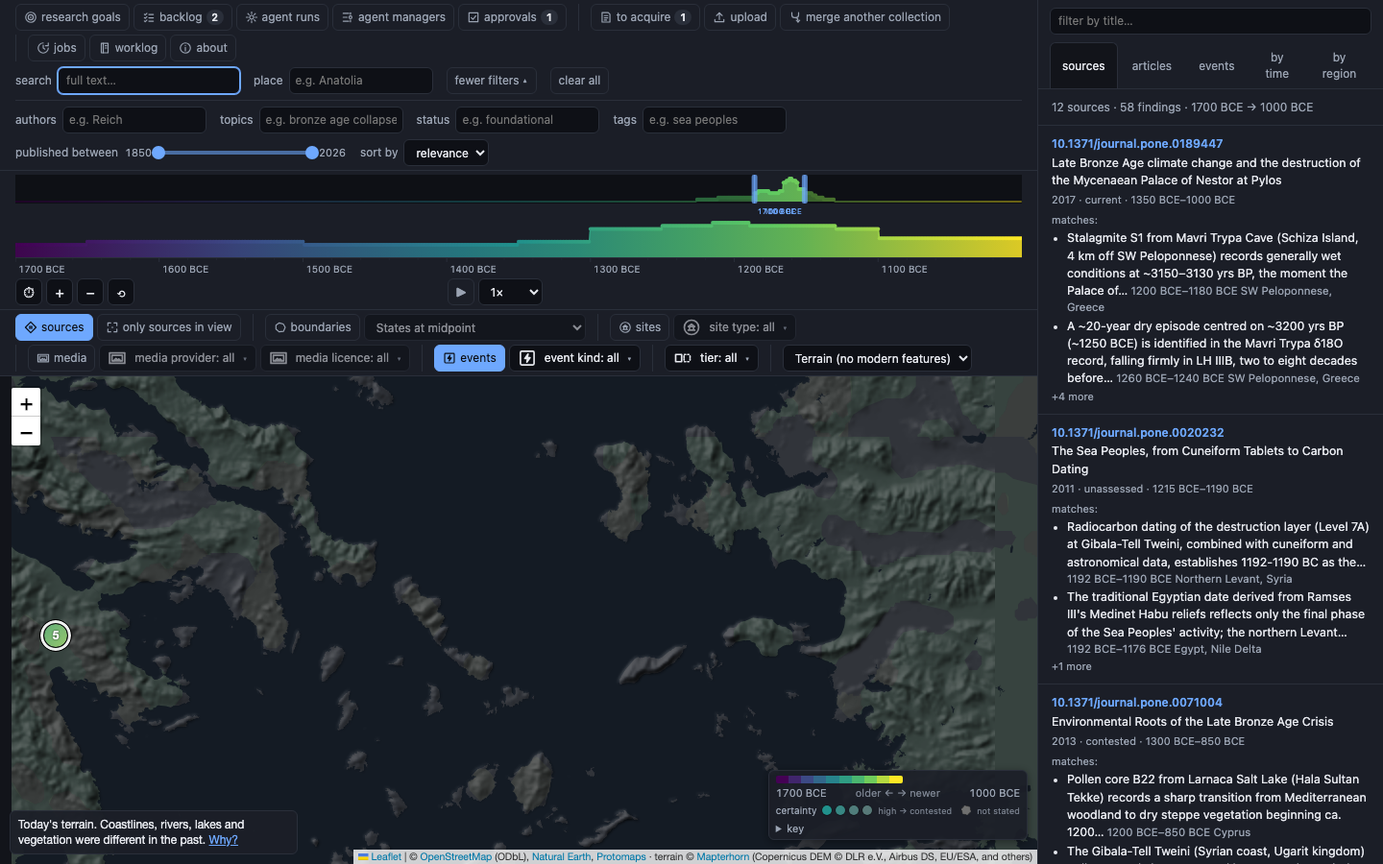
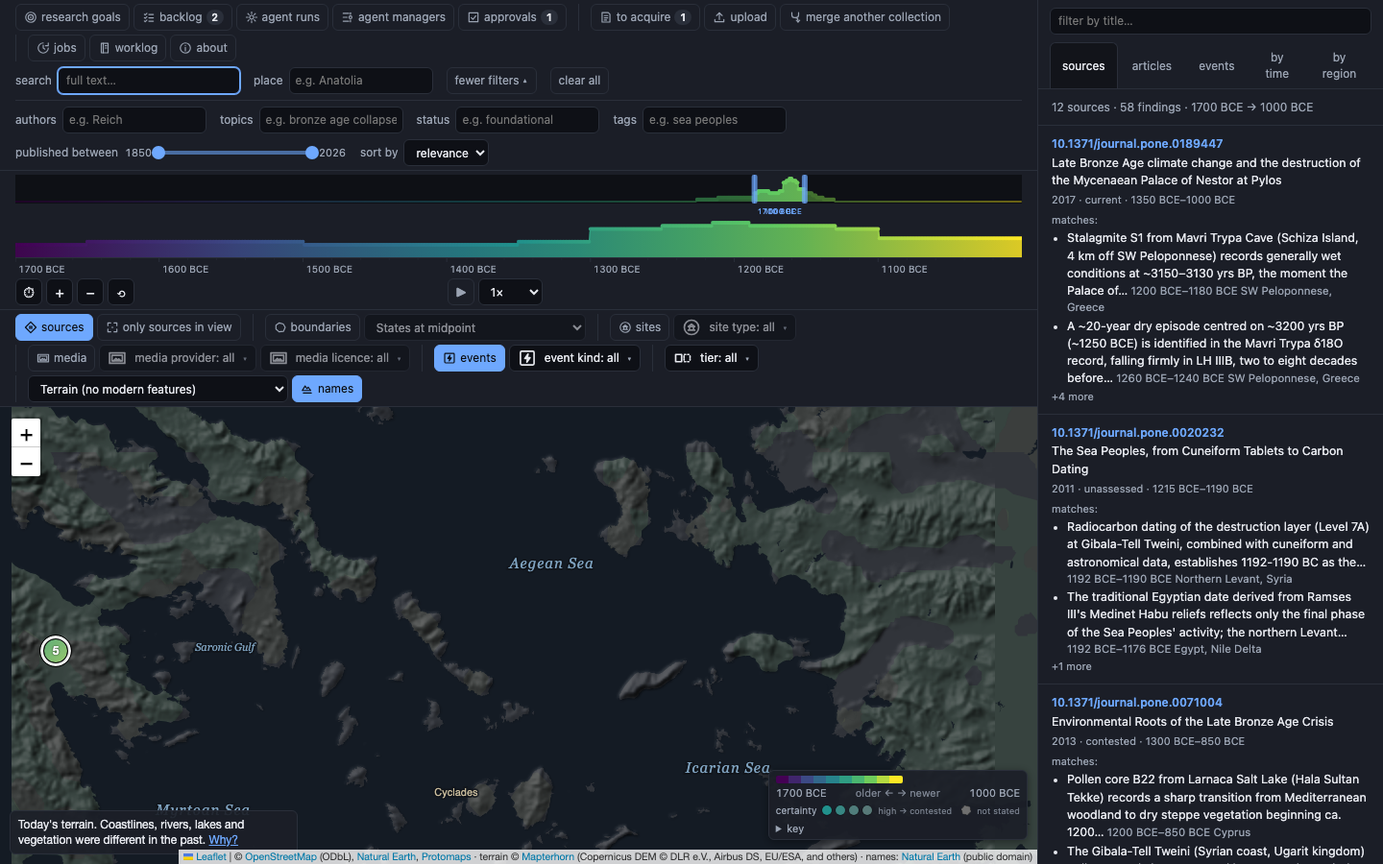
Document customising the terrain map; screenshots of three styles with the names
New page how-to/terrain-styles.md: the named styles, the physical names and
their language, the style file (where it goes, a commented example, every
key, colours, zoom stops), checking a file, what happens to a broken one,
when a change shows. Open data: the broad extract, the drop list, keep-all,
the labels layer and the new sizes; configuration rows; regenerated CLI and
REST references. The terrain map paints the style's background beyond the
extract.

diff --git a/modules/server/src/main/resources/web/style.css b/modules/server/src/main/resources/web/style.css
@@ -375,7 +375,9 @@ header { flex-wrap:wrap; align-items:flex-start; }
 /* `Terrain` base map (TerrainMap): outside the downloaded region there is no tile — the page's own
    background; while it is not downloaded, the standard tiles stand in, dimmed like `Dark` */
 .terrain-missing .leaflet-tile-pane { filter:invert(1) hue-rotate(180deg) brightness(.9) contrast(.9); }
-.terrain-missing.leaflet-container, .terrain-on.leaflet-container { background:var(--bg); }
+.terrain-missing.leaflet-container { background:var(--bg); }
+/* the terrain style's own background (its sea) beyond the extract, set by TerrainMap as --terrain-bg */
+.terrain-on.leaflet-container { background:var(--terrain-bg, var(--bg)); }
 .terrain-notice { background:rgba(27,30,39,.92); border:1px solid var(--line); border-radius:6px; color:var(--ink);
   font-size:var(--fs-sm); line-height:1.35; padding:var(--space-3) var(--space-4); max-width:300px; }
 .terrain-notice a { color:var(--accent); white-space:nowrap; }

diff --git a/docs/user-guide/how-to/terrain-styles.md b/docs/user-guide/how-to/terrain-styles.md
@@ -1,0 +1,179 @@
+# Customising the terrain map
+
+The [terrain map](../exploring/web-ui.md#the-terrain-map) is drawn in your browser from files your
+server keeps (see [Open data → The terrain base map](open-data.md#the-terrain-base-map)). **How** it
+is drawn — the colours, which features are shown, line widths, the relief's light, the names — is a
+**style**, a small text file. You can change it, or add your own styles, without rebuilding or even
+restarting anything: the server reads the file again when it changes, and an open map redraws within
+a few seconds.
+
+## The named styles
+
+Every style is an entry of the base-map menu at the end of the map's layer buttons. Four come with
+Histmersion:
+
+| style | what it shows |
+|---|---|
+| **Terrain** (the default) | today's terrain, dark and muted so your markers, names and boundaries stay on top: land, seas, lakes and rivers, a light tint for forest, grassland, scrub, bare ground and ice, the shaded relief, and the physical names |
+| **Terrain + vegetation** | the same with the land cover drawn strongly, and OpenStreetMap's own woods, scrub and wetlands where they are mapped |
+| **Relief only** | land, water and the relief — no land cover, no names |
+| **Parchment** | a light, old-atlas look: pale land and sea, sepia relief, brown names in a serif type |
+
+<figure markdown>
+  ![The Aegean in the Terrain style: dark land, shaded mountains, sea, gulf and island names](../assets/screenshots/terrain-labels.png){ loading=lazy }
+</figure>
+
+<figure markdown>
+  ![The same view in the Parchment style: pale land and sea, sepia relief, brown names](../assets/screenshots/terrain-parchment.png){ loading=lazy }
+</figure>
+
+<figure markdown>
+  ![The same view in Relief only: the mountains, without land cover or names](../assets/screenshots/terrain-relief.png){ loading=lazy }
+</figure>
+
+
+The **names** button beside the menu switches the physical names off and on (it is greyed out when
+the style shown has none). Your choice of style and of names is remembered by this browser.
+
+## The physical names
+
+The names on the terrain map are those of the land and the water, never of anything people built:
+
+- seas, oceans, gulfs, bays and straits, the islands, and the smaller lakes and rivers — from the
+  same OpenStreetMap download as the map itself;
+- mountain ranges, deserts, plateaus, plains, peninsulas, deltas, island groups, the large lakes,
+  the major rivers and peaks — from [Natural Earth](https://www.naturalearthdata.com) (public domain),
+  a separate download of about 20 MB, of which about 1.4 MB is kept.
+
+No towns, countries, borders or roads are named. The names are drawn below every marker of the map,
+and fewer of them show the further out you zoom. They are shown in **English** by default; set
+`basemap.labels.language` (or `language` in your style file, or in one style) to `local` for each
+name in its own language, or to another language code the data carries (`de`, `fr`, `el`, `tr`,
+`ar`, `ru`, `zh-Hans`, …). A place without a name in that language falls back to English, then to
+its local name.
+
+!!! note "A download made before the names existed"
+    `histmersion basemap status` says when the names are missing, and what to run. Natural Earth's
+    names are a separate small layer:
+
+    ```bash
+    histmersion basemap fetch --layer labels
+    ```
+
+    A vector layer fetched before 2026-10-19 also kept only coast, water and land cover;
+    `basemap status` recommends fetching it once more (`histmersion basemap fetch --layer vector`).
+    Since then the download keeps everything a map of the past could use, and a style decides what
+    is drawn — so restyling never needs another download.
+
+## Your own style file
+
+Your styles go in **`basemap-style.conf`** beside your config file — by default
+`~/.config/histmersion/basemap-style.conf` (a `basemap-style.json` there works too). To keep it
+elsewhere, set `basemap.style` to its path. Start from the built-in file:
+
+```bash
+histmersion basemap styles --example > ~/.config/histmersion/basemap-style.conf
+```
+
+The file is [HOCON](https://github.com/lightbend/config/blob/main/HOCON.md) — JSON with comments,
+optional quotes and commas — or plain JSON. Its `styles` are **merged over the built-in ones by
+`id`**, so your file only needs what you change:
+
+```hocon
+# ~/.config/histmersion/basemap-style.conf
+default = "night"            # the style the menu starts on
+language = "local"           # names in their own language
+
+styles = [
+  # a new entry of the menu: Terrain with a darker sea and white rivers
+  {
+    id = "night"
+    extends = "terrain"      # start from a built-in style; change only what follows
+    name = "Night"
+    background = "#05070a"   # the sea, and where there is no data
+    relief { shadow-opacity = 0.9, azimuth = 270 }      # light from the west
+    layers = [
+      { id = "water", fill = "#05070a" }                # a layer of the parent, by id: these keys change
+      { id = "rivers", color = "white", width = [[5, 0.3], [10, 1.5]] }
+      { id = "streams", remove = true }                 # not drawn
+      { id = "coast", type = "line", layer = "earth", geometry = "polygon",   # a new layer,
+        color = "#2a3440", width = 0.5, before = "water" }                    # drawn under the water
+    ]
+  }
+
+  # a built-in style changed in place: Terrain without names
+  { id = "terrain", extends = "terrain", labels = false }
+
+  # a built-in style taken out of the menu
+  { id = "parchment", hidden = true }
+]
+```
+
+### The format
+
+**A style:** `id` (letters, digits, `-`, `_`), `name` (the menu's text), `description`, `extends`
+(another style's id), `hidden`, `tone` (`dark` or `light` — the map's own names follow it),
+`background` (a colour), `labels` (`true`/`false`: whether its label layers are drawn), `language`,
+`relief` and `layers`.
+
+**The relief:** `enabled`, `shadow` and `highlight` (colours), `shadow-opacity` and
+`highlight-opacity` (0–1, on the steepest slope), `azimuth` (where the light comes from, degrees
+clockwise from north; 315 = north-west), `altitude` (how high it stands, degrees), `exaggeration`
+(how much the slopes are steepened — relief is invisible at a continent's scale without it).
+
+**A layer**, bottom to top:
+
+| key | meaning |
+|---|---|
+| `id` | its name, by which a style that extends this one changes it |
+| `type` | `fill` (areas), `line`, or `label` (names) |
+| `source` | `vector` (the default: coast, water, land cover and use, natural points) or `labels` (Natural Earth's names) |
+| `layer` | the data layer(s) it draws, one or a list: `earth`, `water`, `landcover`, `landuse`, `pois` — or `physical` and `rivers` for `source = "labels"` |
+| `geometry` | `point`, `line` or `polygon` (all when left out) |
+| `kinds`, `not-kinds` | the features' `kind`s drawn, or not drawn (`forest`, `river`, `sea`, `range`, `peak`, …) |
+| `details` | their `kind_detail` (a lake is a `water` of detail `lake`) |
+| `min-zoom`, `max-zoom` | the map zooms it is drawn at |
+| `fill`, `opacity` | an area's colour and opacity |
+| `color`, `width`, `dash` | a line's or a name's colour; a line's width in pixels and dash pattern (`[4, 2]`) |
+| `placement` | a name at its `point` or along a `line` (rivers) |
+| `halo`, `halo-width` | the outline around a name's letters |
+| `font { family, size, weight, style }` | e.g. `{ family = "Georgia, serif", size = 11, style = "italic" }` |
+| `transform`, `letter-spacing`, `max-line-chars` | `uppercase`/`lowercase`/`capitalize`; spacing in pixels; where a long name wraps |
+| `own-min-zoom` | a name also waits for the zoom its data says it starts at (default `true`) |
+| `remove`, `before` | in a style that extends another: drop this layer; put a new one before that id |
+
+Names are placed in layer order: where two would overlap, the earlier one wins.
+
+**Colours:** `#rgb`, `#rrggbb`, `#rrggbbaa`, `rgb(…)`, `rgba(…)`, `hsl(…)`, a CSS colour name, or
+`var(--token)` — a colour of the web page's own theme (the built-in Terrain style uses
+`var(--terrain-land)`, `var(--terrain-water)`, … so a theme still applies).
+
+**Zoom-dependent numbers** (`width`, `opacity`, `halo-width`, a font's `size`, the relief's
+`exaggeration`): a number, or a list of `[zoom, value]` stops — `[[5, 0.3], [10, 1.5]]` is 0.3 up to
+zoom 5, growing evenly to 1.5 at zoom 10, and 1.5 beyond.
+
+The features the data holds — every `kind` of every layer — are listed in Protomaps' [basemap
+layers](https://docs.protomaps.com/basemaps/layers) and, for the names, under
+[The physical names](#the-physical-names) above (`range`, `desert`, `plateau`, `plain`, `basin`,
+`valley`, `delta`, `peninsula`, `isthmus`, `coast`, `wetland`, `region`, `continent`,
+`island_group`, `island`, `lake`, `peak`, `pass`, `depression`, `cape`, `waterfall`; `river` in
+`rivers`).
+
+### Checking a file, and what happens to a broken one
+
+```bash
+histmersion basemap styles --check ~/.config/histmersion/basemap-style.conf   # checks it, uses nothing
+histmersion basemap styles                                                    # the styles served now
+```
+
+The check names every problem at its place in the file — `styles[0].layers[2].width: the stops'
+zooms must ascend` — and an unknown key (a typo) as a warning. **A file with an error is not used at
+all**: the map keeps the built-in styles, never goes blank, and the error is listed by
+`histmersion basemap styles`, `histmersion health` and `histmersion about` until the file is fixed.
+
+### When a change shows
+
+The server looks at the file whenever a page asks for the styles; a page showing the terrain map
+asks every `basemap.style-check-seconds` (5) and redraws when they changed. A change of
+`basemap.style` or `basemap.labels.language` in `histmersion.conf` applies with
+`histmersion config reload` (or the config watcher, `config.watch`) — no restart either way.

diff --git a/docs/user-guide/reference/configuration.md b/docs/user-guide/reference/configuration.md
@@ -287,7 +287,7 @@ The settings of backups and portable bundles are listed with them, in
 | `agents.infer-filter.min-hits` · `.max-hits` · `.min-cited-share` · `.sample` | file only | `3` · `300` · `0.6` · `5` | an inferred filter must return between min and max sources and at least this share of the sources the article cites; `sample` uncited hits are shown with it |
 | `agents.seed.max-articles` · `.min-sources` · `.max-overlap` | file only | `6` · `5` · `0.5` | propose-articles: articles per plan; each one's filter returns at least min-sources and shares less than max-overlap of them with any article of the area (a seeding manager's `minSources`/`maxArticles` config wins) |
 | `agents.prompts-dir` | `HISTMERSION_AGENTS_PROMPTS_DIR` | *(empty)* | a directory overriding the bundled agent definitions file by file, mirroring the bundled `agents/` tree (`article-skeptic.md`, `_shared/review-fixer.md`, `skills/<name>/SKILL.md`, …) — iterate on a prompt without a rebuild (`histmersion agent generate` carries it into the CLI runtimes' trees) |
-| `basemap.dir` | `HISTMERSION_BASEMAP_DIR` | *(empty)* = `$XDG_CACHE_HOME/histmersion/basemap`, else `~/.cache/histmersion/basemap` | where `histmersion basemap fetch` stores the terrain map's two files (`vector.pmtiles`, `terrain.pmtiles`) and its unfinished downloads; a cache — they can be fetched again |
+| `basemap.dir` | `HISTMERSION_BASEMAP_DIR` | *(empty)* = `$XDG_CACHE_HOME/histmersion/basemap`, else `~/.cache/histmersion/basemap` | where `histmersion basemap fetch` stores the terrain map's three files (`vector.pmtiles`, `terrain.pmtiles`, `labels.pmtiles`) and its unfinished downloads; a cache — they can be fetched again |
 | `basemap.bbox` | `HISTMERSION_BASEMAP_BBOX` | `-12,20,90,62` | the region a fetch downloads (`minLon,minLat,maxLon,maxLat`); `--bbox` overrides it once |
 | `basemap.min-free-gb` | `HISTMERSION_BASEMAP_MIN_FREE_GB` | `5` | a fetch is refused when it would leave less free disk than this where the files go |
 | `basemap.request-gap-ms` | `HISTMERSION_BASEMAP_REQUEST_GAP_MS` | `250` | the pause between two range requests to a provider |
@@ -297,10 +297,16 @@ The settings of backups and portable bundles are listed with them, in
 | `basemap.vector.build` | `HISTMERSION_BASEMAP_BUILD` | `latest` | the Protomaps build to extract: the newest in `basemap.vector.builds-url`, or a key such as `20261019.pmtiles` |
 | `basemap.vector.url` · `.builds-url` | `HISTMERSION_BASEMAP_VECTOR_URL` · `HISTMERSION_BASEMAP_BUILDS_URL` | Protomaps' build server and list | where the builds are (`{build}` is replaced by the key) |
 | `basemap.vector.max-zoom` | `HISTMERSION_BASEMAP_MAX_ZOOM` | `10` | deepest zoom of the vector layer (`--max-zoom`); the map draws it larger beyond |
-| `basemap.vector.layers` | `HISTMERSION_BASEMAP_LAYERS` | `earth; water -canal …; landcover forest grassland scrub barren glacier` | the layers kept (`;` between them) and per layer the kinds kept (`kind`) or dropped (`-kind`); everything else (roads, buildings, places, boundaries, POIs, land use) is never stored. Add `; landuse forest wood wetland …` for OpenStreetMap's own, more detailed but unevenly mapped woods and wetlands (about 6× the size) |
+| `basemap.vector.drop` | `HISTMERSION_BASEMAP_DROP` | `roads; transit; buildings; boundaries; places; pois +peak +volcano …` | what is never stored (`;` between layers): a layer alone is dropped whole, `kind` drops that kind, `+kind` spares it and drops the rest of the layer. Everything else — earth, water and its names, land cover, land use, natural points — is kept and the [terrain style](../how-to/terrain-styles.md) decides what is drawn. `""` keeps everything (as `fetch --keep-all` does once); add `; landuse` for a download about a tenth the size |
 | `basemap.vector.attribution` · `basemap.terrain.attribution` | — | OpenStreetMap / Natural Earth / Protomaps · Mapterhorn / Copernicus | the credit lines the map shows (HTML); change them with the sources |
 | `basemap.terrain.url` | `HISTMERSION_BASEMAP_TERRAIN_URL` | Mapterhorn's `planet.pmtiles` | the elevation archive (terrarium-encoded) |
 | `basemap.terrain.max-zoom` | `HISTMERSION_BASEMAP_TERRAIN_MAX_ZOOM` | `8` | deepest zoom of the relief (`--terrain-max-zoom`), in 512-pixel tiles — each zoom deeper roughly triples its size |
+| `basemap.labels.url` · `.files` | `HISTMERSION_BASEMAP_LABELS_URL` | Natural Earth 5.1.2's GeoJSON on GitHub · its regions, peaks, lakes and rivers files | where the physical names come from (`{file}` is replaced by each file); public domain |
+| `basemap.labels.max-zoom` | — | `8` | the names are kept to this zoom and drawn from it deeper |
+| `basemap.labels.language` | `HISTMERSION_BASEMAP_LANGUAGE` | `en` | the language of the terrain map's names unless the style file or a style says otherwise: `en`, `local` (each in its own language), or a code the data carries (`de`, `fr`, `el`, `tr`, …); a missing name falls back to English, then the local name |
+| `basemap.labels.attribution` | — | Natural Earth | the names' credit line |
+| `basemap.style` | `HISTMERSION_BASEMAP_STYLE` | *(empty)* = `basemap-style.conf` (or `.json`) beside `histmersion.conf` | the [terrain style file](../how-to/terrain-styles.md) (`~/` = home, relative = beside the config file); read again when it changes, no restart |
+| `basemap.style-check-seconds` | — | `5` | how often a page showing the terrain map asks whether the styles changed (and redraws) |
 | `ui.docs-url` | `HISTMERSION_UI_DOCS_URL` | this guide on GitHub | the user guide's root; the web page links into it (the terrain map's notice) |
 | `config.watch` | `HISTMERSION_CONFIG_WATCH` | `false` | reload the config by itself when the file changes (see [Reloading the config](#reloading-the-config-no-restart)) |
 | `config.watch-debounce-ms` | `HISTMERSION_CONFIG_WATCH_DEBOUNCE_MS` | `500` | …this long after its last change (an editor writes in steps) |

diff --git a/docs/user-guide/how-to/open-data.md b/docs/user-guide/how-to/open-data.md
@@ -136,35 +136,49 @@ How to reuse a picture: [Pictures](../exploring/media.md#reusing-a-picture).
 ## The terrain base map
 
 The web page's [terrain map](../exploring/web-ui.md#the-terrain-map) — relief, coast, water,
-rivers and land cover, without modern roads, towns or borders — is drawn from two files the server
-downloads once and then serves itself. Nothing is downloaded until you ask:
+rivers, land cover and the physical names, without modern roads, towns or borders — is drawn from
+three files the server downloads once and then serves itself. Nothing is downloaded until you ask:
 
 ```bash
 histmersion basemap fetch --dry-run     # reads only the providers' indexes; prints the sizes
 histmersion basemap fetch               # the download, as a job (it can be stopped and resumed)
 histmersion basemap status              # what is there, where, and how much space is left
-histmersion basemap rm                  # remove it again (--layer vector|terrain)
+histmersion basemap rm                  # remove it again (--layer vector|terrain|labels)
+histmersion basemap fetch --layer labels   # only the physical names (about 20 MB read, 1.4 MB kept)
 ```
 
 | layer | what | source | licence and credit |
 |---|---|---|---|
-| `vector` | coastlines, seas, lakes, rivers and streams; land cover (forest, grassland, scrub, bare ground, ice) | a [Protomaps](https://protomaps.com) daily build of OpenStreetMap and Natural Earth | © OpenStreetMap contributors, [ODbL](https://www.openstreetmap.org/copyright); Natural Earth public domain |
+| `vector` | coastlines, seas, lakes, rivers and streams with their names; land cover and land use; natural points (peaks, springs) | a [Protomaps](https://protomaps.com) daily build of OpenStreetMap and Natural Earth | © OpenStreetMap contributors, [ODbL](https://www.openstreetmap.org/copyright); Natural Earth public domain |
+| `labels` | the names of mountain ranges, deserts, plateaus, peninsulas, island groups, large lakes, major rivers and peaks | [Natural Earth](https://www.naturalearthdata.com) 5.1.2's label layers | public domain (credited on the map all the same) |
 | `terrain` | elevation, shaded into relief by the page | [Mapterhorn](https://mapterhorn.com), mostly the Copernicus GLO-30 elevation model | © Mapterhorn; Copernicus DEM © DLR e.V. 2010–2014 and © Airbus Defence and Space GmbH 2014–2018, provided under COPERNICUS by the European Union and ESA; further open sources are listed on [Mapterhorn's attribution page](https://mapterhorn.com/attribution) |
 
 The credits are shown on the map whenever it is on. Both providers publish one large file for the
 whole world (139 GB and 356 GB) and document downloading **a region of it** with HTTP range requests,
 which is what the fetch does: it reads their index, then only the tiles of your region, in a few
-dozen large requests a quarter of a second apart. Every road, building, place name, border and
-piece of modern land use is dropped before it is stored (`basemap.vector.layers`).
+dozen large requests a quarter of a second apart. Roads, transit, buildings, place names, borders and
+modern points of interest are dropped before it is stored (`basemap.vector.drop`); **everything else
+is kept** — land use, every water feature and its names in every language, natural points — and the
+[style](terrain-styles.md) decides what is drawn, so changing the look never needs another download.
+`--keep-all` stores the vector layer unfiltered. `histmersion basemap status` says what the stored
+extract kept, and recommends one more fetch for one made before 2026-10-19 (which kept only coast,
+water and land cover).
 
 **Sizes** for the default region (`basemap.bbox`, `-12,20,90,62`: Atlantic Europe to the Indus,
 the Sahel to southern Scandinavia), measured on 2026-10-19:
 
-| `--max-zoom` (vector) | downloaded | stored |
-|---|---|---|
-| 8 | 0.22 GB | 16 MB |
-| 9 | 0.63 GB | 56 MB |
-| **10** (default) | **1.5 GB** | **138 MB** |
+| `--max-zoom` (vector) | downloaded | stored (default) | stored (`--keep-all`) |
+|---|---|---|---|
+| 8 | 0.22 GB | 0.18 GB | 0.21 GB |
+| 9 | 0.63 GB | 0.54 GB | 0.61 GB |
+| **10** (default) | **1.5 GB** | **≈ 1.3 GB** | ≈ 1.5 GB |
+
+Nine tenths of it is OpenStreetMap's land use (woods, fields, towns, mapped in fine detail where
+people mapped it), which only the *Terrain + vegetation* style draws; the zoom-10 figures are
+estimated from a measured part of the region. To keep the download small, drop it:
+`basemap.vector.drop = "roads; transit; buildings; boundaries; places; landuse; pois +peak +volcano"`
+(then close to 16, 56 and 138 MB, as before 2026-10-19). The web page asks the server only for the layers its style draws,
+so a large extract costs the page nothing it does not show.
 
 | `--terrain-max-zoom` (512-pixel tiles) | downloaded = stored |
 |---|---|
@@ -174,7 +188,7 @@ the Sahel to southern Scandinavia), measured on 2026-10-19:
 | 9 | 1.6 GB |
 | 10 | 5.0 GB |
 
-So the default fetch downloads about 2 GB and keeps about 0.6 GB. A larger region costs less than
+So the default fetch downloads about 2 GB and keeps about 1.8 GB. A larger region costs less than
 its area suggests (the sea is one tile repeated): `-25,5,95,66` is 1.9 GB downloaded at vector zoom
 10, 0.67 GB of terrain at zoom 8. Each zoom deeper roughly triples the terrain.
 

diff --git a/docs/user-guide/reference/cli.md b/docs/user-guide/reference/cli.md
@@ -202,7 +202,8 @@ hand.
 | `histmersion config path` | Where the user config file is on this machine (printed alone on stdout), whether it exists and reads cleanly; the running server's file is in histmersion about |
 | `histmersion config reload [--json]` | Make the server read its config file again and apply it in place, no restart (restart-only settings are listed, not applied) |
 | `histmersion basemap status [--json]` | What is downloaded, where, and the free space there |
-| `histmersion basemap fetch [--layer <string>] [--max-zoom <integer>] [--terrain-max-zoom <integer>] [--bbox <string>] [--dry-run] [--no-wait]` | Download the terrain base map (coast, water, rivers, land cover; relief) as a server job — resumable; refused when the disk would be left with less than basemap.min-free-gb |
+| `histmersion basemap styles [--example] [--check <path>] [--json]` | The terrain map's named styles — the built-in ones and your style file over them — and what was refused |
+| `histmersion basemap fetch [--layer <string>] [--max-zoom <integer>] [--terrain-max-zoom <integer>] [--bbox <string>] [--dry-run] [--keep-all] [--no-wait]` | Download the terrain base map (coast, water, rivers, land cover; relief; physical names) as a server job — resumable; refused when the disk would be left with less than basemap.min-free-gb |
 | `histmersion basemap rm [--layer <string>]` | Remove the downloaded base-map files (and an unfinished download) |
 | `histmersion plugin add [--yes] [--rebuild] [--verify] [--unsigned] [--sha256 <string>] <path|url|group:artifact:version>` | Install a plugin jar on this machine: a local path (copied), an https URL (downloaded, SHA-256 shown) or group:artifact:version from Maven (group::artifact:version = a Scala 3 artifact); shows its id, version, SPI and access first |
 | `histmersion plugin rm [--rebuild] <id|file>` | Remove an installed plugin (by id or jar file name) from this machine's plugins directory |

diff --git a/docs/user-guide/exploring/web-ui.md b/docs/user-guide/exploring/web-ui.md
@@ -32,9 +32,15 @@ server, and everything else works offline.
 ### The terrain map
 
 **Terrain (no modern features)** shows the land itself — relief, coastlines, seas, lakes, rivers
-and a light tint for forest, grassland, scrub, bare ground and ice — and nothing people built: no
-roads, towns, place names, borders or buildings. The markers, names and state outlines of your
-own corpus are then the only human geography on the map.
+and a light tint for forest, grassland, scrub, bare ground and ice, with the names of the seas,
+mountain ranges, deserts, lakes and rivers — and nothing people built: no roads, towns, place
+names, borders or buildings. The markers, names and state outlines of your own corpus are then the
+only human geography on the map.
+
+It comes in several **styles**, each an entry of the base-map menu — Terrain, Terrain + vegetation,
+Relief only and Parchment — and the **names** button beside the menu switches the physical names off
+and on. You can change the styles or add your own without restarting anything:
+[Customising the terrain map](../how-to/terrain-styles.md).
 
 <figure markdown>
   ![The Aegean on the terrain map: shaded mountains, the sea and the islands, no modern roads or towns, the notice in the corner](../assets/screenshots/home-terrain.png){ loading=lazy }

diff --git a/docs/user-guide/reference/rest-api.md b/docs/user-guide/reference/rest-api.md
@@ -202,7 +202,7 @@ The index of [`Api.all`](https://github.com/histmersion/histmersion/blob/master/
 so it lists every endpoint the server defines even where the table above has no row of its own yet.
 
 <!-- BEGIN API INDEX (generated by `just api-docs` — do not edit by hand) -->
-232 endpoints on 195 paths:
+235 endpoints on 198 paths:
 
 | methods | path |
 |---|---|
@@ -275,6 +275,9 @@ so it lists every endpoint the server defines even where the table above has no 
 | `GET` | `/api/backups/{file}` |
 | `GET` · `DELETE` | `/api/basemap` |
 | `POST` | `/api/basemap/fetch` |
+| `GET` | `/api/basemap/styles` |
+| `POST` | `/api/basemap/styles/check` |
+| `GET` | `/api/basemap/styles/example` |
 | `GET` | `/api/basemap/{layer}/{z}/{x}/{y}` |
 | `GET` | `/api/bundle` |
 | `POST` | `/api/bundle/import` |
